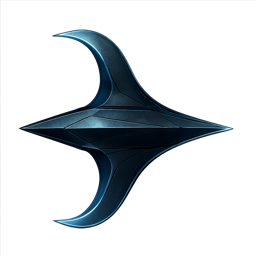
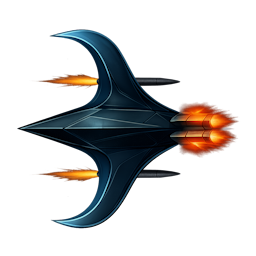
jet_stream_particle

diff --git a/ui/settings_ui.py b/ui/settings_ui.py
@@ -1,0 +1,156 @@
+# ui/settings_ui.py
+import pygame
+from pygame import Surface, draw, font
+from pygame.time import get_ticks
+from math import sin, cos
+from os.path import join, dirname
+from settings_manager import get_setting
+from constants import WHITE, YELLOW, GOLD, CYAN, GREY
+
+class SettingsUI:
+    def __init__(self, asset_manager):
+        self.asset_manager = asset_manager
+        self._cached_width = get_setting("display", "WIDTH", 1920)
+        self._cached_height = get_setting("display", "HEIGHT", 1080)
+        
+        # Initialize fonts with cyberpunk styling
+        font_path = join(dirname(dirname(__file__)), "assets", "fonts", "neuropol.otf")
+        self.font_title = font.Font(font_path, 40)
+        self.font_setting = font.Font(font_path, 24)
+        self.font_small = font.Font(font_path, 18)
+        self.scanline_offset = 0
+
+    def draw(self, screen, ui_flow_controller):
+        width, height = screen.get_size()
+        self._draw_background(screen)
+        
+        board_width = 1400
+        board_height = 800
+        board_x = (width - board_width) // 2
+        board_y = (height - board_height) // 2
+        
+        self._draw_main_frame(screen, board_x, board_y, board_width, board_height)
+        self._draw_title(screen, "SETTINGS", board_x + board_width // 2 - 80, board_y + 30)
+        self._draw_settings(screen, ui_flow_controller, board_x + 80, board_y + 120)
+        self._draw_instructions(screen, board_x, board_y, board_width, board_height)
+        self._draw_scanlines(screen)
+
+    def _draw_background(self, screen):
+        width, height = screen.get_size()
+        overlay = Surface((width, height), pygame.SRCALPHA)
+        time_factor = get_ticks() * 0.001
+        bg_alpha = int(200 + 30 * sin(time_factor))
+        overlay.fill((5, 15, 35, bg_alpha))
+
+        grid_offset = int(get_ticks() * 0.02) % 50
+        for x in range(-grid_offset, width + 50, 50):
+            a = int(60 + 40 * sin(time_factor + x * 0.01))
+            draw.line(overlay, (20, 60, 120, a), (x, 0), (x, height))
+        for y in range(-grid_offset, height + 50, 50):
+            a = int(60 + 40 * cos(time_factor + y * 0.01))
+            draw.line(overlay, (20, 60, 120, a), (0, y), (width, y))
+        screen.blit(overlay, (0, 0))
+
+    def _draw_main_frame(self, screen, x, y, width, height):
+        panel_surface = Surface((width, height), pygame.SRCALPHA)
+        time_factor = get_ticks() * 0.002
+        bg_alpha = int(220 + 20 * sin(time_factor))
+        panel_surface.fill((20, 35, 60, bg_alpha))
+        screen.blit(panel_surface, (x, y))
+        
+        border_alpha = int(120 + 80 * sin(time_factor * 2))
+        draw.rect(screen, (0, 200, 255, border_alpha), (x-1, y-1, width+2, height+2), 3, border_radius=12)
+        draw.rect(screen, (0, 255, 255, 150), (x, y, width, height), 2, border_radius=10)
+        
+        corner_size = 40
+        glow_alpha = int(150 + 100 * sin(time_factor * 3))
+        
+        # Corner decorations
+        draw.line(screen, (*GOLD, glow_alpha), (x-2, y + corner_size), (x-2, y-2), 5)
+        draw.line(screen, (*GOLD, glow_alpha), (x-2, y-2), (x + corner_size, y-2), 5)
+        draw.line(screen, GOLD, (x, y + corner_size), (x, y), 3)
+        draw.line(screen, GOLD, (x, y), (x + corner_size, y), 3)
+
+    def _draw_title(self, screen, text, x, y):
+        self._draw_text_with_shadow(screen, text, self.font_title, GOLD, (x, y))
+
+    def _draw_settings(self, screen, ui_flow_controller, start_x, start_y):
+        settings_items = ui_flow_controller.settings_items_data
+        selected_index = ui_flow_controller.selected_setting_index
+        
+        max_visible = 12
+        start_idx = max(0, selected_index - max_visible // 2)
+        start_idx = min(start_idx, max(0, len(settings_items) - max_visible))
+        end_idx = min(len(settings_items), start_idx + max_visible)
+        
+        for i_display, i_actual in enumerate(range(start_idx, end_idx)):
+            item = settings_items[i_actual]
+            y_pos = start_y + i_display * 40
+            
+            # Highlight selected item
+            if i_actual == selected_index:
+                color = GOLD
+                glow_alpha = int(80 + 40 * sin(get_ticks() * 0.005))
+                glow_surf = Surface((1000, 35), pygame.SRCALPHA)
+                glow_surf.fill((*GOLD, glow_alpha))
+                screen.blit(glow_surf, (start_x - 20, y_pos - 5))
+            else:
+                color = CYAN
+            
+            # Setting label
+            self._draw_text_with_shadow(screen, item['label'], self.font_setting, color, (start_x, y_pos))
+            
+            # Setting value
+            val_text = self._get_setting_value_text(item)
+            self._draw_text_with_shadow(screen, val_text, self.font_setting, color, (start_x + 600, y_pos))
+
+    def _get_setting_value_text(self, item):
+        if item['type'] == 'action':
+            return "[PRESS ENTER]"
+        
+        category = item.get('category', 'gameplay')
+        current_val = get_setting(category, item['key'], None)
+        val_to_format = current_val
+        
+        if item.get("is_ms_to_sec") and val_to_format is not None:
+            val_to_format /= 1000
+        
+        if 'display_format' in item and val_to_format is not None:
+            val_text = item['display_format'].format(val_to_format)
+        elif 'get_display' in item and current_val is not None:
+            val_text = item['get_display'](current_val)
+        else:
+            val_text = str(current_val) if current_val is not None else "N/A"
+        
+        if item['type'] in ["numeric", "choice"]:
+            val_text = f"< {val_text} >"
+        
+        return val_text
+
+    def _draw_text_with_shadow(self, screen, text, font_obj, color, pos, shadow_color=(0, 0, 0), offset=(2, 2)):
+        text_surf = font_obj.render(text, True, shadow_color)
+        screen.blit(text_surf, (pos[0] + offset[0], pos[1] + offset[1]))
+        text_surf = font_obj.render(text, True, color)
+        screen.blit(text_surf, pos)
+
+    def _draw_scanlines(self, screen):
+        width, height = screen.get_size()
+        scanline_surface = Surface((width, height), pygame.SRCALPHA)
+        
+        self.scanline_offset = (self.scanline_offset + 0.5) % 6
+        time_factor = get_ticks() * 0.001
+        
+        for y in range(int(self.scanline_offset), height, 6):
+            alpha = int(50 + 20 * sin(time_factor + y * 0.1))
+            alpha = max(10, min(80, alpha))
+            draw.line(scanline_surface, (0, 20, 40, alpha), (0, y), (width, y), 1)
+        
+        bright_line_y = int((get_ticks() * 0.1) % height)
+        draw.line(scanline_surface, (0, 100, 200, 60), (0, bright_line_y), (width, bright_line_y), 2)
+        
+        screen.blit(scanline_surface, (0, 0))
+
+    def _draw_instructions(self, screen, board_x, board_y, board_width, board_height):
+        instructions = "Use [↑↓] to navigate • [←→] to change values • [ESC] to return"
+        self._draw_text_with_shadow(screen, instructions, self.font_small, WHITE,
+                                    (board_x + board_width // 2 - 250, board_y + board_height - 50))

diff --git a/entities/jet_stream_particle.py b/entities/jet_stream_particle.py
@@ -1,0 +1,101 @@
+# entities/jet_stream_particle.py
+import pygame
+from math import sin, cos, radians
+from random import uniform
+
+class JetStreamParticle(pygame.sprite.Sprite):
+    """
+    A persistent visual effect that creates a jet stream exhaust trail.
+    It attaches to a parent sprite (the player drone) and updates its
+    position and angle every frame to match.
+    """
+    def __init__(self, parent_drone, offset_vector):
+        """
+        Initializes the JetStreamParticle.
+
+        Args:
+            parent_drone: The sprite this jet stream is attached to.
+            offset_vector: An (x, y) tuple for the stream's position relative 
+                           to the parent's center (e.g., (0, 15) for a side engine).
+        """
+        super().__init__()
+        self.parent = parent_drone
+        self.offset = pygame.math.Vector2(offset_vector)
+
+        # The image and rect will be created dynamically in the update() method,
+        # so we start with a placeholder.
+        self.image = pygame.Surface([1, 1], pygame.SRCALPHA)
+        self.rect = self.image.get_rect()
+
+    def update(self):
+        """
+        Recalculates the position, angle, and appearance of the jet stream
+        based on the parent drone's current state.
+        """
+        # Determine the stream's length and intensity based on drone state
+        is_cruising = getattr(self.parent, 'is_cruising', False)
+        is_boosting = hasattr(self.parent, 'powerup_manager') and self.parent.powerup_manager.speed_boost_active
+
+        if not is_cruising:
+            self.image = pygame.Surface([1, 1], pygame.SRCALPHA) # Effectively invisible
+            self.rect = self.image.get_rect()
+            return
+            
+        base_length = 120 if is_boosting else 70
+        length_variation = uniform(0.95, 1.05)
+        current_length = base_length * length_variation
+
+        # Get the drone's current angle and position
+        drone_angle_rad = radians(self.parent.angle)
+        drone_pos = pygame.math.Vector2(self.parent.rect.center)
+
+        # Rotate the offset vector to find the stream's base position on the drone
+        rotated_offset = self.offset.rotate(-self.parent.angle)
+        start_pos = drone_pos + rotated_offset
+
+        # Calculate the end position of the stream
+        end_pos_x = start_pos.x - cos(drone_angle_rad) * current_length
+        end_pos_y = start_pos.y - sin(drone_angle_rad) * current_length
+        end_pos = pygame.math.Vector2(end_pos_x, end_pos_y)
+
+        # Dynamically redraw the sprite
+        self._redraw(start_pos, end_pos, is_boosting)
+
+    def _redraw(self, start, end, is_boosting):
+        """
+        Creates the visual representation of the jet stream on a new surface.
+        This uses several layered lines to create a glowing effect.
+        """
+        # Create a surface just large enough to contain the jet stream line
+        padding = 20
+        min_x, max_x = min(start.x, end.x), max(start.x, end.x)
+        min_y, max_y = min(start.y, end.y), max(start.y, end.y)
+        width = max_x - min_x + padding
+        height = max_y - min_y + padding
+        
+        self.image = pygame.Surface([width, height], pygame.SRCALPHA)
+        self.rect = self.image.get_rect(topleft=(min_x - padding / 2, min_y - padding / 2))
+
+        # Remap global coordinates to the local surface
+        local_start = start - self.rect.topleft
+        local_end = end - self.rect.topleft
+
+        # Draw the stream with a gradient effect for a "glow"
+        outer_width = 14 if is_boosting else 10
+        mid_width = 9 if is_boosting else 6
+        inner_width = 4 if is_boosting else 2
+        
+        # 1. Outer glow (Faint Orange)
+        pygame.draw.line(self.image, (255, 150, 0, 100), local_start, local_end, outer_width)
+        # 2. Middle core (Bright Yellow)
+        pygame.draw.line(self.image, (255, 255, 0, 150), local_start, local_end, mid_width)
+        # 3. Inner core (Bright White)
+        pygame.draw.line(self.image, (255, 255, 255, 200), local_start, local_end, inner_width)
+
+
+    def draw(self, surface, camera=None):
+        # This custom draw method is needed because the rect is already in world coordinates
+        if camera:
+            surface.blit(self.image, camera.apply_to_rect(self.rect))
+        else:
+            surface.blit(self.image, self.rect)

diff --git a/ui/ui.py b/ui/ui.py
@@ -19,6 +19,7 @@ from constants import (
 
 from .build_menu import BuildMenu
 from .leaderboard_ui import LeaderboardUI
+from .settings_ui import SettingsUI
 
 logger = getLogger(__name__)
 if not getLogger().hasHandlers():
@@ -71,6 +72,11 @@ class UIManager:
             self.leaderboard_ui = LeaderboardUI()
         else:
             self.leaderboard_ui = None
+            
+        if SettingsUI:
+            self.settings_ui = SettingsUI(self.asset_manager)
+        else:
+            self.settings_ui = None
 
         self._load_ui_assets_from_manager()
         self.update_player_life_icon_surface()
@@ -1047,40 +1053,13 @@ class UIManager:
             self.screen.blit(obj_surf, obj_rect)
 
     def draw_settings_menu(self):
-        self._draw_star_background()
-        title_surf = self._render_text_safe("Settings", "large_text", GOLD, fallback_size=48)
-        self.screen.blit(title_surf, title_surf.get_rect(center=(self._cached_width // 2, 80)))
-        
-        ui_flow = self.game_controller.ui_flow_controller
-        settings_items, selected_index = ui_flow.settings_items_data, ui_flow.selected_setting_index
-        font_setting = self.asset_manager.get_font("ui_text", 28)
-        
-        start_y = 200
-        for i, item in enumerate(settings_items):
-            y_pos = start_y + i * 50
-            color = YELLOW if i == selected_index else WHITE
-            label_surf = font_setting.render(item['label'], True, color)
-            self.screen.blit(label_surf, (200, y_pos))
-            
-            val_text = ""
-            if item['type'] != 'action':
-                category = item.get('category', 'gameplay')  # Default to gameplay if not specified
-                current_val = get_setting(category, item['key'], None)
-                val_to_format = current_val
-                if item.get("is_ms_to_sec") and val_to_format is not None: val_to_format /= 1000
-                
-                if 'display_format' in item and val_to_format is not None:
-                    val_text = item['display_format'].format(val_to_format)
-                elif 'get_display' in item and current_val is not None:
-                    val_text = item['get_display'](current_val)
-                else:
-                    val_text = str(current_val) if current_val is not None else "N/A"
-                    
-                if item['type'] in ["numeric", "choice"]: val_text = f"< {val_text} >"
-            else: val_text = "[PRESS ENTER]"
-            
-            val_surf = font_setting.render(val_text, True, color)
-            self.screen.blit(val_surf, (self._cached_width - 200 - val_surf.get_width(), y_pos))
+        if self.settings_ui:
+            self.settings_ui.draw(self.screen, self.game_controller.ui_flow_controller)
+        else:
+            # Fallback to old method if SettingsUI not available
+            self._draw_star_background()
+            title_surf = self._render_text_safe("Settings", "large_text", GOLD, fallback_size=48)
+            self.screen.blit(title_surf, title_surf.get_rect(center=(self._cached_width // 2, 80)))
 
     def draw_leaderboard_ui(self):
         if self.leaderboard_ui:

diff --git a/ui/__init__.py b/ui/__init__.py
@@ -3,10 +3,12 @@ from .ui import UIManager
 from .build_menu import BuildMenu
 from .weapon_shop_ui import WeaponShopUI
 from .leaderboard_ui import LeaderboardUI
+from .settings_ui import SettingsUI
 
 __all__ = [
 "BuildMenu",
 "LeaderboardUI",
+"SettingsUI",
 "UIManager",
 "WeaponShopUI"
 ]
